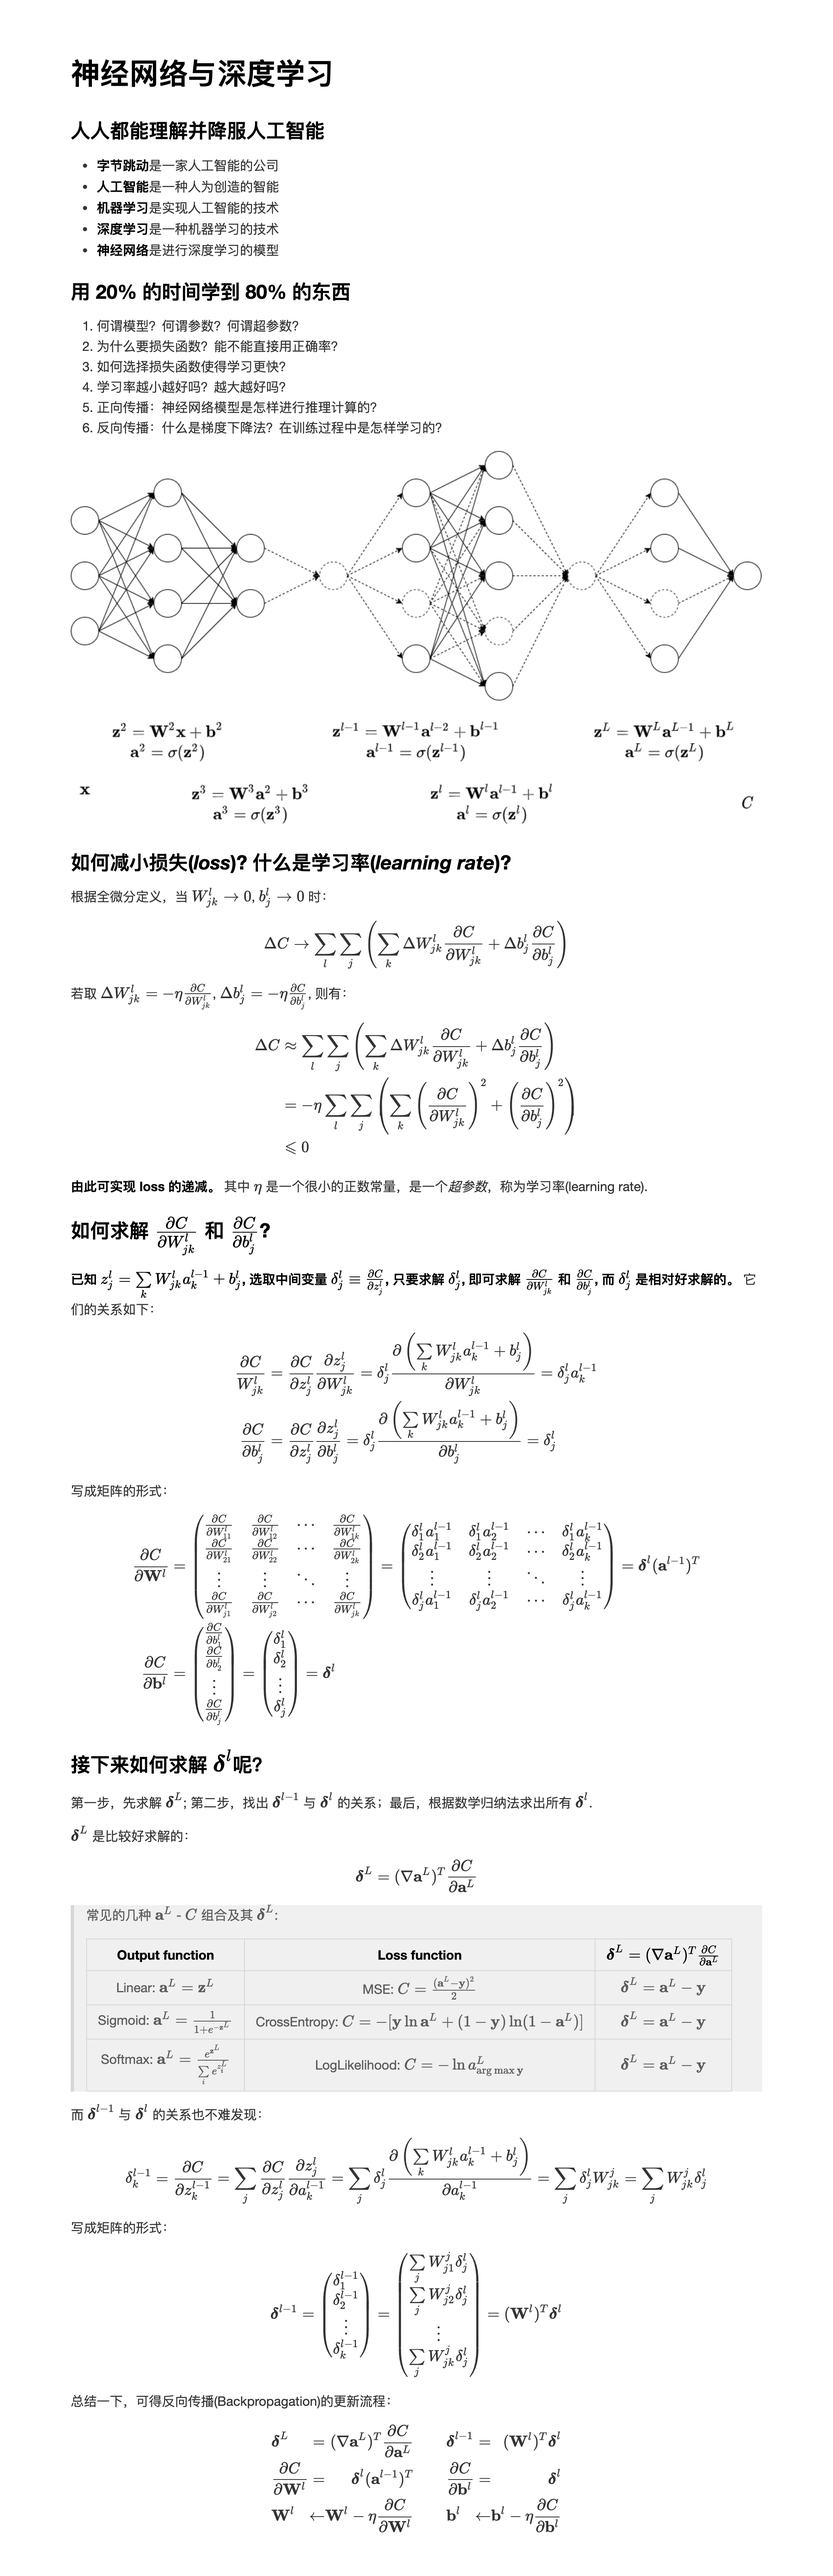
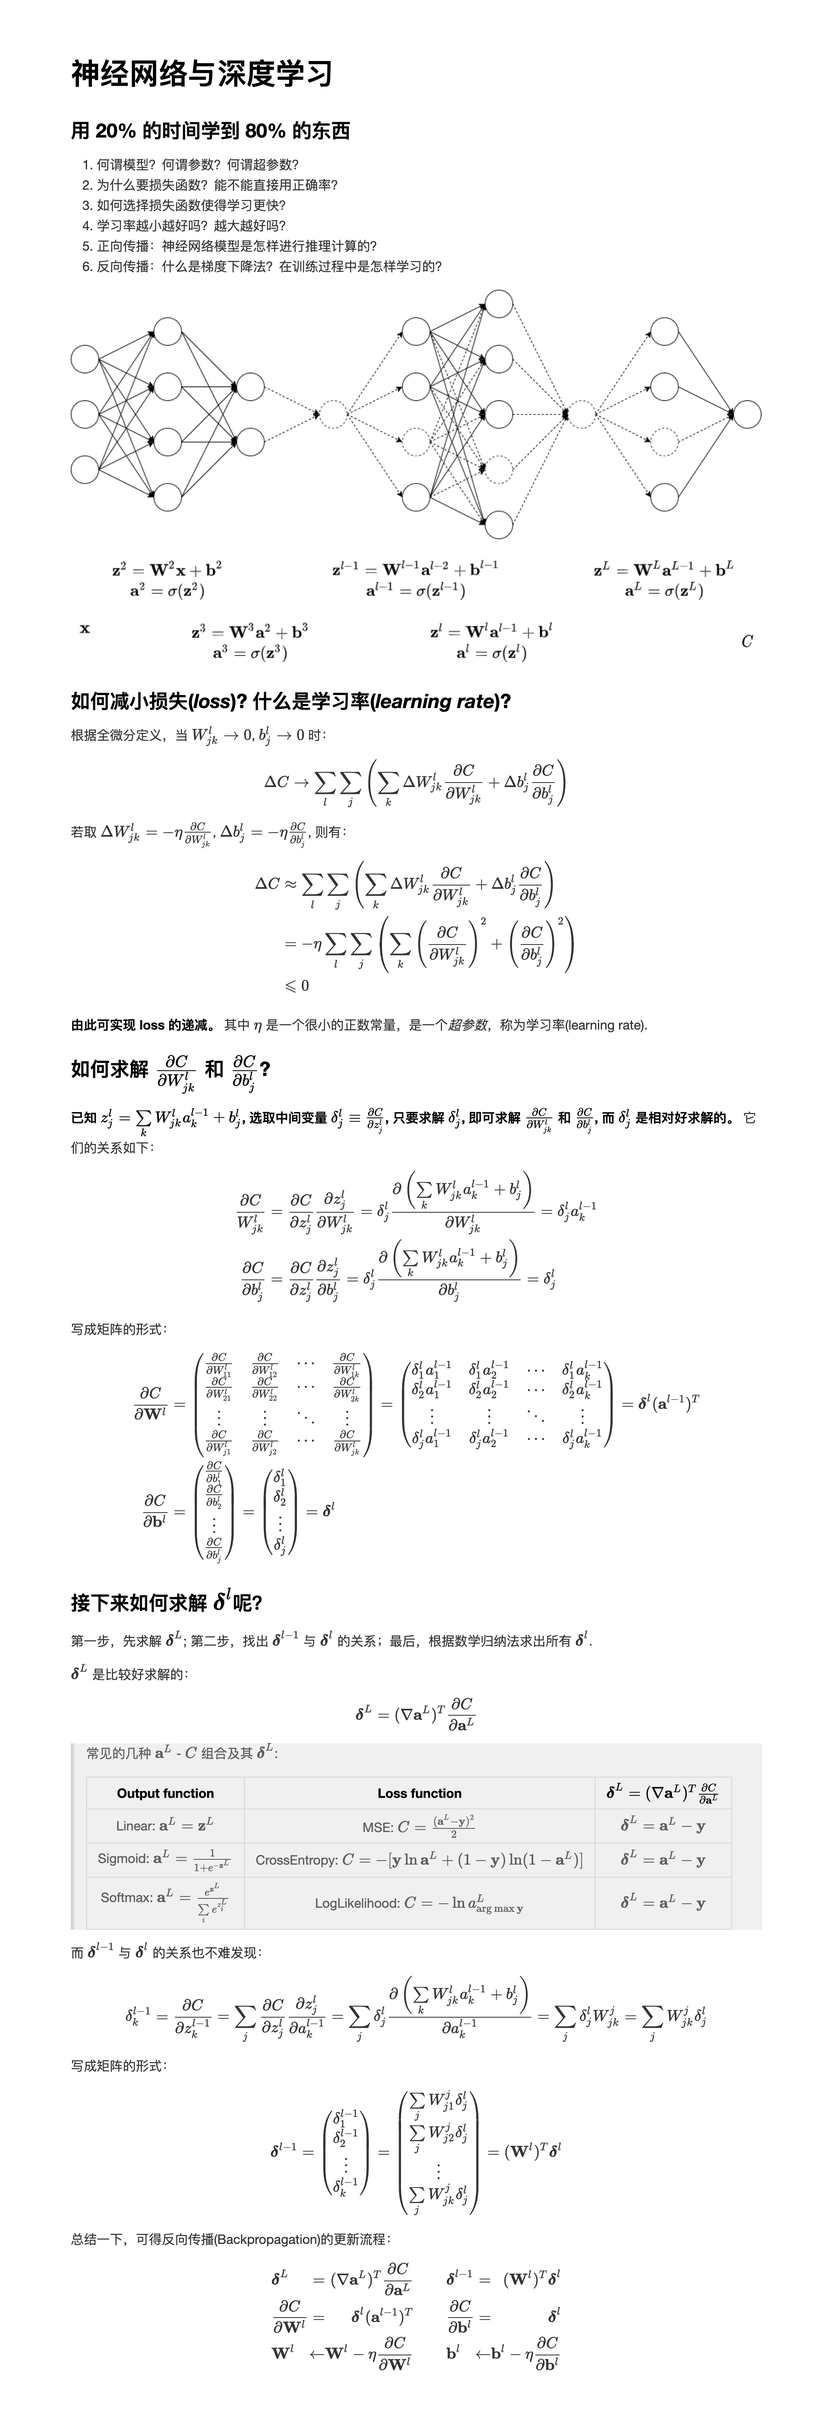
remove private discription

diff --git a/NeuralNetworksAndDeepLearning.md b/NeuralNetworksAndDeepLearning.md
@@ -1,13 +1,5 @@
 # 神经网络与深度学习
 
-### 人人都能理解并降服人工智能
-
-- **字节跳动**是一家人工智能的公司
-- **人工智能**是一种人为创造的智能
-- **机器学习**是实现人工智能的技术
-- **深度学习**是一种机器学习的技术
-- **神经网络**是进行深度学习的模型
-
 ### 用 20% 的时间学到 80% 的东西
 
 1. 何谓模型？何谓参数？何谓超参数？
